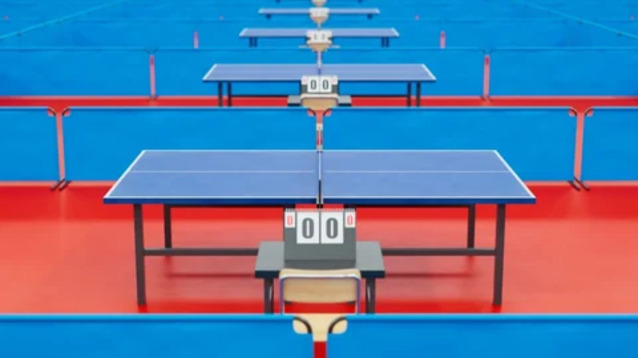
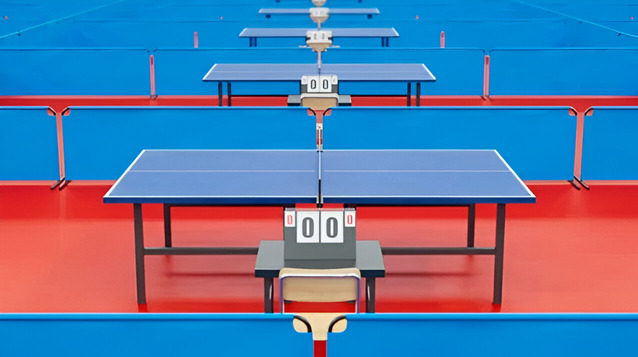
increase lvl1 bg resolution

diff --git a/components/ball.py b/components/ball.py
@@ -6,20 +6,18 @@ class Ball(Entity):
     def __init__(self, table, speed=1.5):
         super().__init__(
             parent=table,
-            model='sphere',  # You can replace this with a custom model if needed
+            model='sphere',  
             color=color.brown,
             scale=0.05,
             position=(0, 3.71, -0.20),
-            collider='sphere',  # More accurate collider for sphere
-            shader='lit_with_shadows'  # Enable lighting/shadow shader
+            collider='sphere'  
         )
         self.dx = 0.1
         self.dz = 0.2
         self.speed = speed
         self.just_bounced = False
 
-        # Enable 3D shading and light reflection
-        self.texture = 'white_cube'  # Gives a glossy 3D look with lighting
+        self.texture = 'white_cube'  
 
     def move(self):
         if ball_move_sound:
